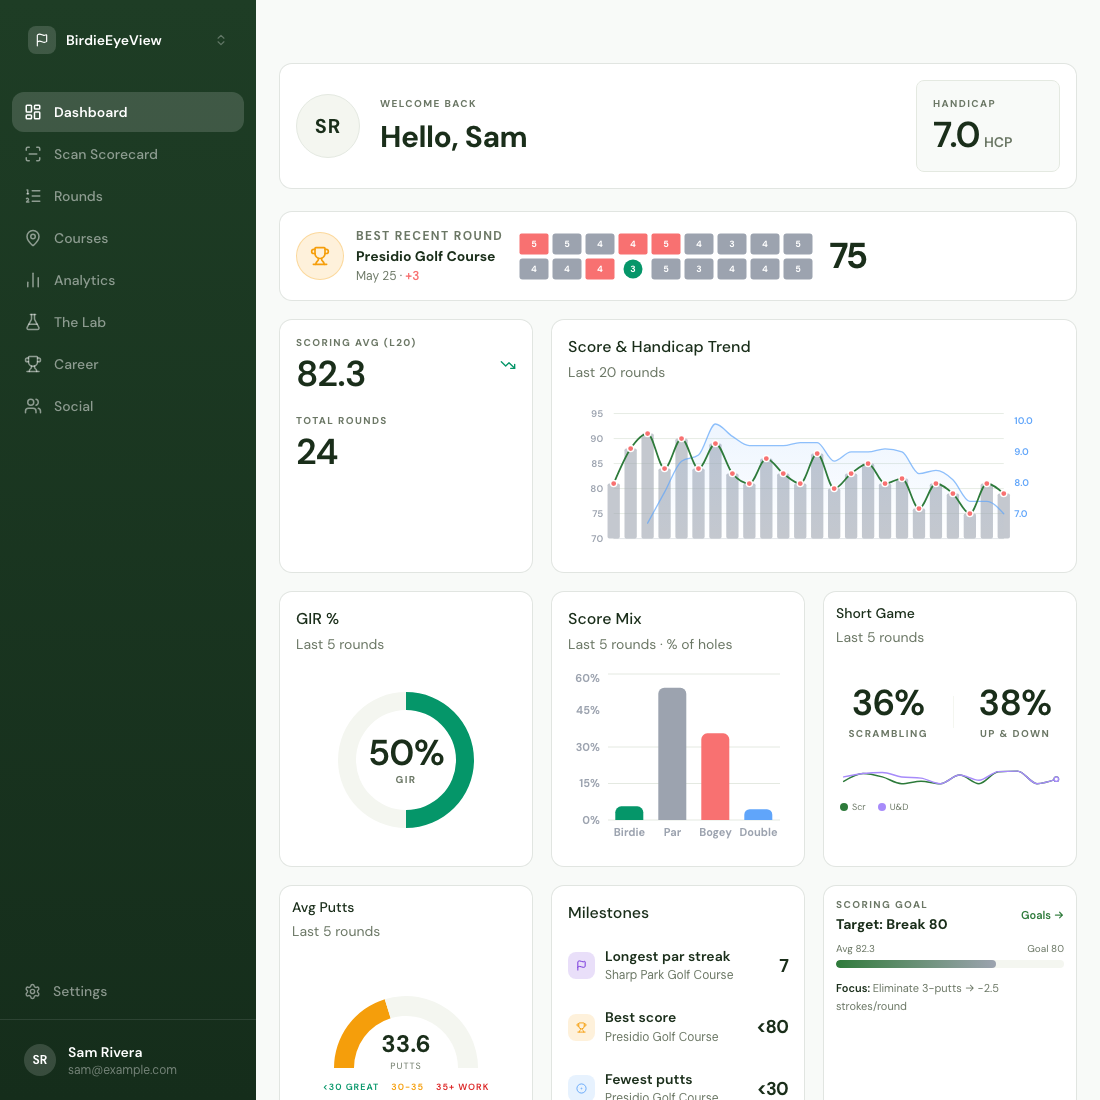
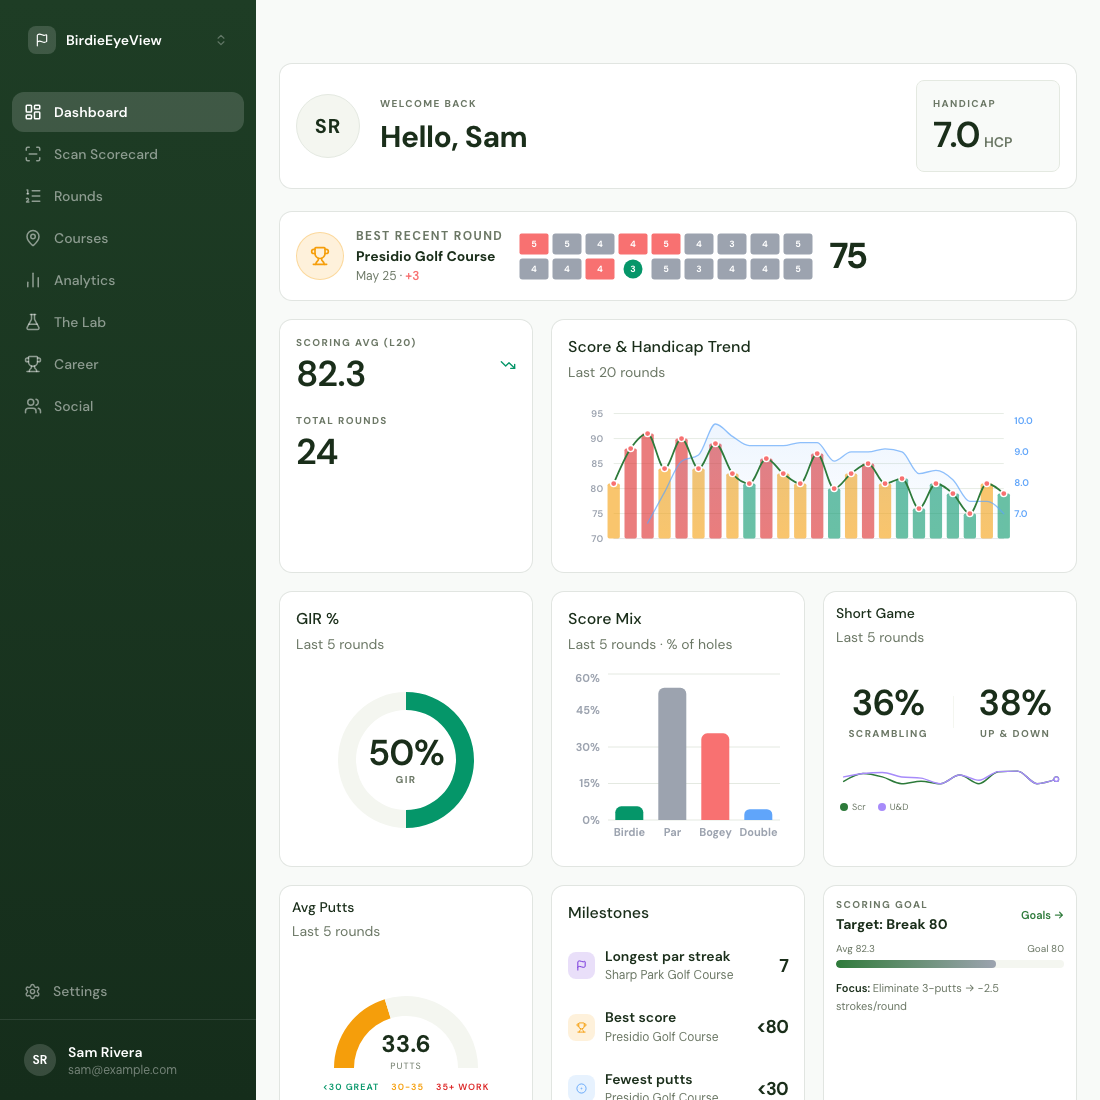
Give the sample golfer each round's handicap status
#357 moved the trend bars' colour onto a differential_status the server sends
with each handicap-trend row. The sample golfer was generated before that, so
its rows had none and every bar fell back to grey. Regenerated from the current
backend, the tour's original captures match again, so they are restored.

Changed region(s): [[0.5255, 0.4018, 0.9273, 0.4945]]

diff --git a/frontend/src/testing/fixtures/sampleGolfer.ts b/frontend/src/testing/fixtures/sampleGolfer.ts
@@ -36,30 +36,30 @@ export const sampleGolfer = {
       {"birdie": 0.0, "bogey": 50.17301038062284, "bucket": "No GIR", "double_bogey": 17.647058823529413, "eagle": 0.0, "holes_counted": 289, "par": 30.79584775086505, "quad_bogey": 0.0, "triple_bogey": 1.384083044982699}
     ],
     "handicap_trend": [
-      {"differential": 8.7, "handicap_index": null, "hi_threshold": 9.5, "round_id": "1af632aa-5dd9-56d4-af17-659bbad5a919", "round_index": 1, "used_in_hi": false},
-      {"differential": 14.6, "handicap_index": null, "hi_threshold": 9.5, "round_id": "01601fb8-2bc9-5594-bde0-7ebc6fe33243", "round_index": 2, "used_in_hi": false},
-      {"differential": 18.9, "handicap_index": 6.7, "hi_threshold": 9.5, "round_id": "cd85180c-0b6a-5d10-aa8f-054ca4445638", "round_index": 3, "used_in_hi": false},
-      {"differential": 11.2, "handicap_index": 7.7, "hi_threshold": 9.5, "round_id": "2579c7a3-a3b3-5d82-b538-61d2128a6e1f", "round_index": 4, "used_in_hi": false},
-      {"differential": 16.4, "handicap_index": 8.7, "hi_threshold": 9.5, "round_id": "90d024a6-751b-5a66-90da-db249dc124d7", "round_index": 5, "used_in_hi": false},
-      {"differential": 11.2, "handicap_index": 8.9, "hi_threshold": 9.5, "round_id": "0eeaae44-21b6-528e-8caa-371edd83d00f", "round_index": 6, "used_in_hi": false},
-      {"differential": 17.0, "handicap_index": 9.9, "hi_threshold": 9.5, "round_id": "8b1d02ed-4b2d-54ea-89e3-73559307ac0d", "round_index": 7, "used_in_hi": false},
-      {"differential": 10.4, "handicap_index": 9.5, "hi_threshold": 9.5, "round_id": "a0e978cf-88ca-5184-8561-71c29ff4106c", "round_index": 8, "used_in_hi": false},
-      {"differential": 8.7, "handicap_index": 9.2, "hi_threshold": 9.5, "round_id": "5967f924-b018-5cf7-97b4-d86e77f74eab", "round_index": 9, "used_in_hi": true},
-      {"differential": 12.9, "handicap_index": 9.2, "hi_threshold": 9.5, "round_id": "8af5900e-a669-5d32-80f0-f8f1f0bc1a7d", "round_index": 10, "used_in_hi": false},
-      {"differential": 10.4, "handicap_index": 9.2, "hi_threshold": 9.5, "round_id": "0f955de5-fa15-5b83-84be-b84e44163d0b", "round_index": 11, "used_in_hi": false},
-      {"differential": 9.6, "handicap_index": 9.3, "hi_threshold": 9.5, "round_id": "7be8bd1a-e259-5f86-9bd5-f08d8a6d0fab", "round_index": 12, "used_in_hi": false},
-      {"differential": 13.8, "handicap_index": 9.3, "hi_threshold": 9.5, "round_id": "d3f573ef-4529-5747-afa9-91d4d2a94d0a", "round_index": 13, "used_in_hi": false},
-      {"differential": 7.8, "handicap_index": 8.7, "hi_threshold": 9.5, "round_id": "9738f7b0-bc48-55ed-8aff-44bf3de707dc", "round_index": 14, "used_in_hi": true},
-      {"differential": 10.2, "handicap_index": 9.0, "hi_threshold": 9.5, "round_id": "06b05b8c-d971-5e32-b8c0-a30b4d52bd49", "round_index": 15, "used_in_hi": false},
-      {"differential": 12.1, "handicap_index": 9.0, "hi_threshold": 9.5, "round_id": "8b029a4b-9d5b-5360-9d5f-06ba5eb0e4dc", "round_index": 16, "used_in_hi": false},
-      {"differential": 9.6, "handicap_index": 9.1, "hi_threshold": 9.5, "round_id": "1594ecf1-af95-55ad-8b23-2ec81c779bff", "round_index": 17, "used_in_hi": false},
-      {"differential": 9.5, "handicap_index": 9.0, "hi_threshold": 9.5, "round_id": "5ba4527d-c48a-549c-a054-9306305065af", "round_index": 18, "used_in_hi": true},
-      {"differential": 4.4, "handicap_index": 8.3, "hi_threshold": 9.5, "round_id": "024547fc-f399-501c-bb61-ea2dfe649c5d", "round_index": 19, "used_in_hi": true},
-      {"differential": 8.5, "handicap_index": 8.4, "hi_threshold": 9.5, "round_id": "fab7f282-178f-506b-9713-9764f5104099", "round_index": 20, "used_in_hi": true},
-      {"differential": 7.0, "handicap_index": 8.1, "hi_threshold": 9.5, "round_id": "9b10c525-e9f3-553c-b698-eb23d1e06bbd", "round_index": 21, "used_in_hi": true},
-      {"differential": 3.6, "handicap_index": 7.4, "hi_threshold": 9.5, "round_id": "8d412153-b640-567c-b361-5eb47ecb4efd", "round_index": 22, "used_in_hi": true},
-      {"differential": 9.6, "handicap_index": 7.4, "hi_threshold": 9.5, "round_id": "c96b797b-8476-55e3-93d3-feca94cdc806", "round_index": 23, "used_in_hi": false},
-      {"differential": 7.0, "handicap_index": 7.0, "hi_threshold": 9.5, "round_id": "0617bc8a-76ba-5b80-8e8d-52a19f07feed", "round_index": 24, "used_in_hi": true}
+      {"differential": 8.7, "differential_status": "close", "handicap_index": null, "hi_threshold": 9.5, "round_id": "1af632aa-5dd9-56d4-af17-659bbad5a919", "round_index": 1, "used_in_hi": false},
+      {"differential": 14.6, "differential_status": "out", "handicap_index": null, "hi_threshold": 9.5, "round_id": "01601fb8-2bc9-5594-bde0-7ebc6fe33243", "round_index": 2, "used_in_hi": false},
+      {"differential": 18.9, "differential_status": "out", "handicap_index": 6.7, "hi_threshold": 9.5, "round_id": "cd85180c-0b6a-5d10-aa8f-054ca4445638", "round_index": 3, "used_in_hi": false},
+      {"differential": 11.2, "differential_status": "close", "handicap_index": 7.7, "hi_threshold": 9.5, "round_id": "2579c7a3-a3b3-5d82-b538-61d2128a6e1f", "round_index": 4, "used_in_hi": false},
+      {"differential": 16.4, "differential_status": "out", "handicap_index": 8.7, "hi_threshold": 9.5, "round_id": "90d024a6-751b-5a66-90da-db249dc124d7", "round_index": 5, "used_in_hi": false},
+      {"differential": 11.2, "differential_status": "close", "handicap_index": 8.9, "hi_threshold": 9.5, "round_id": "0eeaae44-21b6-528e-8caa-371edd83d00f", "round_index": 6, "used_in_hi": false},
+      {"differential": 17.0, "differential_status": "out", "handicap_index": 9.9, "hi_threshold": 9.5, "round_id": "8b1d02ed-4b2d-54ea-89e3-73559307ac0d", "round_index": 7, "used_in_hi": false},
+      {"differential": 10.4, "differential_status": "close", "handicap_index": 9.5, "hi_threshold": 9.5, "round_id": "a0e978cf-88ca-5184-8561-71c29ff4106c", "round_index": 8, "used_in_hi": false},
+      {"differential": 8.7, "differential_status": "counting", "handicap_index": 9.2, "hi_threshold": 9.5, "round_id": "5967f924-b018-5cf7-97b4-d86e77f74eab", "round_index": 9, "used_in_hi": true},
+      {"differential": 12.9, "differential_status": "out", "handicap_index": 9.2, "hi_threshold": 9.5, "round_id": "8af5900e-a669-5d32-80f0-f8f1f0bc1a7d", "round_index": 10, "used_in_hi": false},
+      {"differential": 10.4, "differential_status": "close", "handicap_index": 9.2, "hi_threshold": 9.5, "round_id": "0f955de5-fa15-5b83-84be-b84e44163d0b", "round_index": 11, "used_in_hi": false},
+      {"differential": 9.6, "differential_status": "close", "handicap_index": 9.3, "hi_threshold": 9.5, "round_id": "7be8bd1a-e259-5f86-9bd5-f08d8a6d0fab", "round_index": 12, "used_in_hi": false},
+      {"differential": 13.8, "differential_status": "out", "handicap_index": 9.3, "hi_threshold": 9.5, "round_id": "d3f573ef-4529-5747-afa9-91d4d2a94d0a", "round_index": 13, "used_in_hi": false},
+      {"differential": 7.8, "differential_status": "counting", "handicap_index": 8.7, "hi_threshold": 9.5, "round_id": "9738f7b0-bc48-55ed-8aff-44bf3de707dc", "round_index": 14, "used_in_hi": true},
+      {"differential": 10.2, "differential_status": "close", "handicap_index": 9.0, "hi_threshold": 9.5, "round_id": "06b05b8c-d971-5e32-b8c0-a30b4d52bd49", "round_index": 15, "used_in_hi": false},
+      {"differential": 12.1, "differential_status": "out", "handicap_index": 9.0, "hi_threshold": 9.5, "round_id": "8b029a4b-9d5b-5360-9d5f-06ba5eb0e4dc", "round_index": 16, "used_in_hi": false},
+      {"differential": 9.6, "differential_status": "close", "handicap_index": 9.1, "hi_threshold": 9.5, "round_id": "1594ecf1-af95-55ad-8b23-2ec81c779bff", "round_index": 17, "used_in_hi": false},
+      {"differential": 9.5, "differential_status": "counting", "handicap_index": 9.0, "hi_threshold": 9.5, "round_id": "5ba4527d-c48a-549c-a054-9306305065af", "round_index": 18, "used_in_hi": true},
+      {"differential": 4.4, "differential_status": "counting", "handicap_index": 8.3, "hi_threshold": 9.5, "round_id": "024547fc-f399-501c-bb61-ea2dfe649c5d", "round_index": 19, "used_in_hi": true},
+      {"differential": 8.5, "differential_status": "counting", "handicap_index": 8.4, "hi_threshold": 9.5, "round_id": "fab7f282-178f-506b-9713-9764f5104099", "round_index": 20, "used_in_hi": true},
+      {"differential": 7.0, "differential_status": "counting", "handicap_index": 8.1, "hi_threshold": 9.5, "round_id": "9b10c525-e9f3-553c-b698-eb23d1e06bbd", "round_index": 21, "used_in_hi": true},
+      {"differential": 3.6, "differential_status": "counting", "handicap_index": 7.4, "hi_threshold": 9.5, "round_id": "8d412153-b640-567c-b361-5eb47ecb4efd", "round_index": 22, "used_in_hi": true},
+      {"differential": 9.6, "differential_status": "close", "handicap_index": 7.4, "hi_threshold": 9.5, "round_id": "c96b797b-8476-55e3-93d3-feca94cdc806", "round_index": 23, "used_in_hi": false},
+      {"differential": 7.0, "differential_status": "counting", "handicap_index": 7.0, "hi_threshold": 9.5, "round_id": "0617bc8a-76ba-5b80-8e8d-52a19f07feed", "round_index": 24, "used_in_hi": true}
     ],
     "kpis": {"gir_percentage": 33.1, "handicap_index": 7.0, "putts_per_gir": 2.02, "scoring_average": 82.9, "scrambling_percentage": 31.6, "total_rounds": 24, "up_and_down_percentage": 39.5},
     "net_score_trend": [
